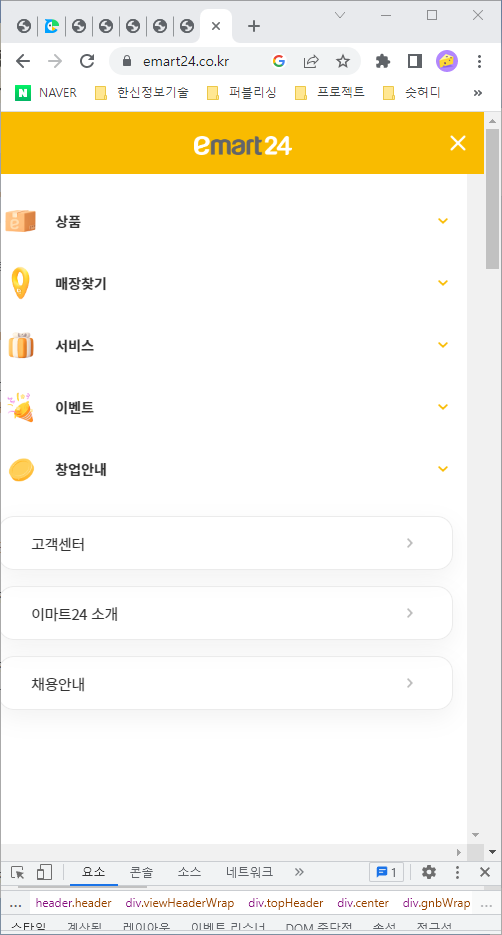
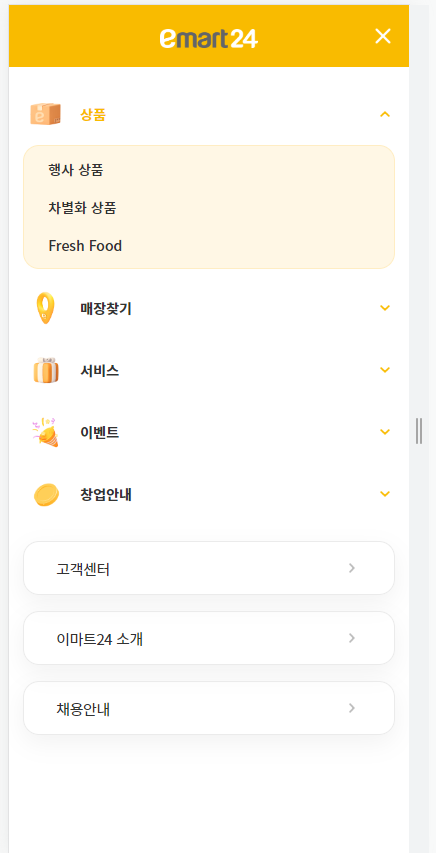
lnb 반응형 scss

diff --git a/스터디_2023/프로젝트/이마트24/css/style.css b/스터디_2023/프로젝트/이마트24/css/style.css
@@ -63,7 +63,7 @@ h1 { font-size: 0; line-height: 0; }
 
 .lnb .depth1 .depth1_item .depth2 .depth2_list .depth2_item a:hover { color: #f9bb00; }
 
-.lnb .lnb_link { display: none; padding: 0 14px; }
+.lnb .lnb_link { display: none; position: relative; padding: 0 14px; }
 
 .lnb .lnb_link ul { display: -webkit-box; display: -ms-flexbox; display: flex; -webkit-box-orient: vertical; -webkit-box-direction: normal; -ms-flex-direction: column; flex-direction: column; margin-top: 23px; }
 
@@ -88,29 +88,38 @@ h1 { font-size: 0; line-height: 0; }
   .lnb .depth1 .depth1_item { padding: 30px 56px 30px 0; }
   .lnb .depth1 .depth1_item .depth1_text { font-size: 17px; line-height: 25px; } }
 
-@media (max-width: 1000px) { header { height: 70px; }
-  .logo { top: 20px; left: calc(50% - 49px); }
+@media (max-width: 1000px) { header { height: 62px; }
+  .logo { top: 18px; left: calc(50% - 49px); }
   .logo a { width: 98px; }
   .fixed header { -webkit-transform: translateY(0); transform: translateY(0); }
   .menu.pulldown .depth1 { height: auto; }
-  .lnb { right: -100%; width: 100%; background-color: #fff; -webkit-transition: all 0.3s ease; transition: all 0.3s ease; z-index: 10; }
-  .lnb .lnb_topbox { display: block; position: relative; margin-bottom: 25px; padding: 23px 0 22px; background-color: #f9bb00; text-align: center; }
+  .lnb { right: -100%; width: 100%; height: 100vh; background-color: #fff; -webkit-transition: all 0.3s ease; transition: all 0.3s ease; z-index: 10; }
+  .lnb .lnb_topbox { display: block; position: relative; margin-bottom: 25px; padding: 19px 0 18px; background-color: #f9bb00; text-align: center; }
   .lnb .lnb_topbox a { width: 98px; }
-  .lnb .menu { position: relative; height: auto; }
+  .lnb .menu { overflow-y: auto; position: relative; height: calc(100% - 85px); }
   .lnb .menu::before { display: none; }
+  .lnb .menu:before { display: block; position: absolute; left: 0; top: -25px; width: 100%; height: 100vh; background: #fff; }
+  .lnb_open .lnb .menu::before { height: 100vh; }
   .lnb .depth1 { width: auto; height: auto; padding: 0 14px; }
   .lnb .depth1 .depth1_item { display: block; position: relative; margin-bottom: 16px; padding: 0; text-align: left; }
-  .lnb .depth1 .depth1_item a:before { display: -webkit-box; display: -ms-flexbox; display: flex; min-width: 45px; width: 31px; height: 22px; background-image: url("../images/main_sprite.png"); background-position: -5px -80px; background-repeat: no-repeat; }
-  .lnb .depth1 .depth1_item:nth-child(1) a:before { width: 31px; height: 22px; background-image: url("../images/main_sprite.png"); background-position: -5px -80px; background-repeat: no-repeat; }
-  .lnb .depth1 .depth1_item:nth-child(2) a:before { width: 19px; height: 32px; background-image: url("../images/main_sprite.png"); background-position: -45px -78px; background-repeat: no-repeat; }
-  .lnb .depth1 .depth1_item:nth-child(3) a:before { width: 25px; height: 26px; background-image: url("../images/main_sprite.png"); background-position: -76px -81px; background-repeat: no-repeat; }
-  .lnb .depth1 .depth1_item:nth-child(4) a:before { width: 26px; height: 29px; background-image: url("../images/main_sprite.png"); background-position: -110px -83px; background-repeat: no-repeat; }
-  .lnb .depth1 .depth1_item:nth-child(5) a:before { width: 25px; height: 24px; background-image: url("../images/main_sprite.png"); background-position: -153px -88px; background-repeat: no-repeat; }
+  .lnb .depth1 .depth1_item .depth1_text { display: -webkit-box; display: -ms-flexbox; display: flex; -webkit-box-align: center; -ms-flex-align: center; align-items: center; padding: 10px 5px; font-size: 14px; line-height: 22px; font-weight: 700; text-decoration: none; }
+  .lnb .depth1 .depth1_item .depth1_text:before { display: -webkit-box; display: -ms-flexbox; display: flex; min-width: 31px; margin-right: 17px; width: 31px; height: 22px; background-image: url("../images/main_sprite.png"); background-position: -5px -80px; background-repeat: no-repeat; }
+  .lnb .depth1 .depth1_item:nth-child(1) .depth1_text:before { width: 31px; height: 22px; background-image: url("../images/main_sprite.png"); background-position: -5px -80px; background-repeat: no-repeat; }
+  .lnb .depth1 .depth1_item:nth-child(2) .depth1_text:before { width: 19px; height: 32px; background-image: url("../images/main_sprite.png"); background-position: -40px -78px; background-repeat: no-repeat; }
+  .lnb .depth1 .depth1_item:nth-child(3) .depth1_text:before { width: 25px; height: 26px; background-image: url("../images/main_sprite.png"); background-position: -73px -81px; background-repeat: no-repeat; }
+  .lnb .depth1 .depth1_item:nth-child(4) .depth1_text:before { width: 26px; height: 29px; background-image: url("../images/main_sprite.png"); background-position: -108px -83px; background-repeat: no-repeat; }
+  .lnb .depth1 .depth1_item:nth-child(5) .depth1_text:before { width: 25px; height: 24px; background-image: url("../images/main_sprite.png"); background-position: -148px -88px; background-repeat: no-repeat; }
+  .lnb .depth1 .depth1_item .depth1_text:after { display: block; position: absolute; right: 5px; width: 10px; height: 6px; background-image: url("../images/main_sprite.png"); background-position: -37px -43px; background-repeat: no-repeat; -webkit-transition: all 0.2s ease; transition: all 0.2s ease; }
+  .lnb .depth1 .depth1_item.active .depth1_text:after { -webkit-transform: rotate(180deg); transform: rotate(180deg); }
   .lnb .depth1 .depth1_item:last-child { margin-bottom: 0; }
-  .lnb .depth1 .depth1_item .depth1_text { display: -webkit-box; display: -ms-flexbox; display: flex; padding: 12px 5px; font-size: 14px; line-height: 22px; font-weight: 700; }
+  .lnb .depth1 .depth1_item .depth2 { position: static; height: 0; background-color: #fff7e5; border: 1px solid #fff; border-radius: 16px; opacity: 0; -webkit-transition: all 0.2s ease; transition: all 0.2s ease; }
+  .lnb .depth1 .depth1_item.active .depth2 { height: auto; margin-top: 5px; border: 1px solid #ffedc3; opacity: 1; }
+  .lnb .depth1 .depth1_item .depth2 .depth2_list { padding: 14px 24px; }
+  .lnb .depth1 .depth1_item .depth2 .depth2_list .depth2_item { margin-top: 15px; }
+  .lnb .depth1 .depth1_item .depth2 .depth2_list .depth2_item a { font-size: 14px; line-height: 22px; color: #333; font-weight: 500; }
   .lnb_show .lnb { right: 0; }
   .lnb .lnb_link { display: block; }
-  .lnb .menu_hide { display: block; position: absolute; top: 14px; right: 14px; width: 35px; }
+  .lnb .menu_hide { display: block; position: absolute; top: 13px; right: 9px; width: 35px; }
   .lnb .menu_hide .menu_button { display: block; width: 100%; height: 35px; border: none; margin: 0; padding: 0; font-size: 0; }
   .lnb .menu_hide .menu_button:before { display: block; position: absolute; top: 10px; left: 10px; width: 16px; height: 16px; background-image: url("../images/main_sprite.png"); background-position: -214px -90px; background-repeat: no-repeat; }
   .gnb { display: none; } }
@@ -359,7 +368,7 @@ body { font-family: 'Noto Sans KR', sans-serif; font-size: 16px; }
   .event .tab_menu .tab_list { -webkit-box-orient: horizontal; -webkit-box-direction: normal; -ms-flex-direction: row; flex-direction: row; -webkit-box-pack: justify; -ms-flex-pack: justify; justify-content: space-between; gap: 8px; }
   .event .tab_menu .tab_item { width: 100%; }
   .event .tab_menu .tab_item + .tab_item { margin-top: 0; }
-  .event .tab_menu .tab_item .tab_btn { padding: 9px 40px; border: 0.5px solid #ebebeb; border-radius: 16px; font-size: 14px; text-align: center; -webkit-box-shadow: 0px 8px 24px rgba(0, 0, 0, 0.05); box-shadow: 0px 8px 24px rgba(0, 0, 0, 0.05); }
+  .event .tab_menu .tab_item .tab_btn { padding: 9px 0; border: 0.5px solid #ebebeb; border-radius: 16px; font-size: 14px; text-align: center; -webkit-box-shadow: 0px 8px 24px rgba(0, 0, 0, 0.05); box-shadow: 0px 8px 24px rgba(0, 0, 0, 0.05); }
   .event .tab_menu .tab_item .tab_btn span { vertical-align: middle; }
   .event .tab_menu .tab_item .tab_btn::before { display: inline-block; position: static; margin-right: 10px; -webkit-transform: scale(0.85); transform: scale(0.85); vertical-align: middle; }
   .event .tab_menu .tab_item .tab_btn::after { display: none; }

diff --git a/스터디_2023/프로젝트/이마트24/css/_header.scss b/스터디_2023/프로젝트/이마트24/css/_header.scss
@@ -152,6 +152,7 @@ h1{font-size: 0;line-height: 0;}
     }
     .lnb_link{
         display: none;
+        position: relative;
         padding: 0 14px;
         ul{
             display:flex;
@@ -231,29 +232,39 @@ h1{font-size: 0;line-height: 0;}
     .lnb .depth1 .depth1_item .depth1_text{font-size:17px;line-height:25px;}
 }
 @include tablet{
-    header{height:70px;}
-    .logo{top:20px;left: calc(50% - 49px);}
+    header{height:62px;}
+    .logo{top:18px;left: calc(50% - 49px);}
     .logo a{width:98px;}
     .fixed header{transform:translateY(0);}
     .menu.pulldown .depth1{height: auto;}
-    .lnb{right:-100%;width:100%;background-color:$White;transition: all 0.3s ease;z-index:10;}
-    .lnb .lnb_topbox{display:block;position:relative;margin-bottom:25px;padding:23px 0 22px;background-color:$BrandColorYellow;text-align: center;}
+    .lnb{right:-100%;width:100%;height:100vh;background-color:$White;transition: all 0.3s ease;z-index:10;}
+    .lnb .lnb_topbox{display:block;position:relative;margin-bottom:25px;padding:19px 0 18px;background-color:$BrandColorYellow;text-align: center;}
     .lnb .lnb_topbox a{width:98px;}
-    .lnb .menu{position: relative;height: auto;}
+    .lnb .menu{overflow-y:auto;position: relative;height: calc(100% - 85px);}
     .lnb .menu::before{display: none;}
+    .lnb .menu:before {display:block;position:absolute;left:0;top:-25px;width: 100%;height: 100vh;background: #fff}
+    .lnb_open .lnb .menu::before{height: 100vh;}
     .lnb .depth1{width:auto;height: auto;padding:0 14px;}
+    
     .lnb .depth1 .depth1_item{display:block;position:relative;margin-bottom:16px;padding:0;text-align: left;}
-    .lnb .depth1 .depth1_item a:before{display: flex;min-width: 45px;@include sprite_img(31px, 22px, '../images/main_sprite.png', -5px -80px);}
-    .lnb .depth1 .depth1_item:nth-child(1) a:before{@include sprite_img(31px, 22px, '../images/main_sprite.png', -5px -80px);}
-    .lnb .depth1 .depth1_item:nth-child(2) a:before{@include sprite_img(19px, 32px, '../images/main_sprite.png', -45px -78px);}
-    .lnb .depth1 .depth1_item:nth-child(3) a:before{@include sprite_img(25px, 26px, '../images/main_sprite.png', -76px -81px);}
-    .lnb .depth1 .depth1_item:nth-child(4) a:before{@include sprite_img(26px, 29px, '../images/main_sprite.png', -110px -83px);}
-    .lnb .depth1 .depth1_item:nth-child(5) a:before{@include sprite_img(25px, 24px, '../images/main_sprite.png', -153px -88px);}
+    .lnb .depth1 .depth1_item .depth1_text{display: flex;align-items: center;padding:10px 5px;font-size:14px;line-height:22px;font-weight:700;text-decoration: none;}
+    .lnb .depth1 .depth1_item .depth1_text:before{display: flex;min-width:31px;margin-right:17px;@include sprite_img(31px, 22px, '../images/main_sprite.png', -5px -80px);}
+    .lnb .depth1 .depth1_item:nth-child(1) .depth1_text:before{@include sprite_img(31px, 22px, '../images/main_sprite.png', -5px -80px);}
+    .lnb .depth1 .depth1_item:nth-child(2) .depth1_text:before{@include sprite_img(19px, 32px, '../images/main_sprite.png', -40px -78px);}
+    .lnb .depth1 .depth1_item:nth-child(3) .depth1_text:before{@include sprite_img(25px, 26px, '../images/main_sprite.png', -73px -81px);}
+    .lnb .depth1 .depth1_item:nth-child(4) .depth1_text:before{@include sprite_img(26px, 29px, '../images/main_sprite.png', -108px -83px);}
+    .lnb .depth1 .depth1_item:nth-child(5) .depth1_text:before{@include sprite_img(25px, 24px, '../images/main_sprite.png', -148px -88px);}
+    .lnb .depth1 .depth1_item .depth1_text:after{display: block;position:absolute;right:5px;@include sprite_img(10px, 6px, '../images/main_sprite.png', -37px -43px);transition: all 0.2s ease;}
+    .lnb .depth1 .depth1_item.active .depth1_text:after{transform: rotate(180deg);}
     .lnb .depth1 .depth1_item:last-child{margin-bottom:0;}
-    .lnb .depth1 .depth1_item .depth1_text{display: flex;padding:12px 5px;font-size:14px;line-height:22px;font-weight:700;}
+    .lnb .depth1 .depth1_item .depth2{position: static;height: 0;background-color:#fff7e5;border: 1px solid #fff;border-radius:16px;opacity: 0;transition: all 0.2s ease;}
+    .lnb .depth1 .depth1_item.active .depth2{height:auto;margin-top:5px;border: 1px solid #ffedc3;opacity:1;}
+    .lnb .depth1 .depth1_item .depth2 .depth2_list{padding:14px 24px;}
+    .lnb .depth1 .depth1_item .depth2 .depth2_list .depth2_item{margin-top:15px;}
+    .lnb .depth1 .depth1_item .depth2 .depth2_list .depth2_item a{font-size:14px;line-height:22px;color:#333;font-weight:500;}
     .lnb_show .lnb{right:0}
     .lnb .lnb_link{display:block;}
-    .lnb .menu_hide{display: block;position: absolute;top:14px;right:14px;width:35px;}
+    .lnb .menu_hide{display: block;position: absolute;top:13px;right:9px;width:35px;}
     .lnb .menu_hide .menu_button{display:block; width:100%; height:35px; border:none; margin:0; padding:0;font-size:0;}
     .lnb .menu_hide .menu_button:before{display:block; position:absolute; top:10px; left:10px;@include sprite_img(16px, 16px, '../images/main_sprite.png', -214px -90px); }
     .gnb{display: none;}

diff --git a/스터디_2023/프로젝트/이마트24/index.html b/스터디_2023/프로젝트/이마트24/index.html
@@ -129,14 +129,15 @@
                             </li>
                         </ul>
                     </div>
+                    <div class="lnb_link">
+                        <ul>
+                            <li><a href="">고객센터</a></li>
+                            <li><a href="">이마트24 소개</a></li>
+                            <li><a href="">채용안내</a></li>
+                        </ul>
+                    </div>
                 </nav>
-                <div class="lnb_link">
-                    <ul>
-                        <li><a href="">고객센터</a></li>
-                        <li><a href="">이마트24 소개</a></li>
-                        <li><a href="">채용안내</a></li>
-                    </ul>
-                </div>
+                
                 <div class="menu_hide">
                     <button type="button" class="menu_button">메뉴 닫기</button>
                 </div>

diff --git a/스터디_2023/프로젝트/이마트24/css/style.scss b/스터디_2023/프로젝트/이마트24/css/style.scss
@@ -500,7 +500,7 @@ body {
     .event .tab_menu .tab_list{flex-direction: row;justify-content:space-between;gap: 8px;}
     .event .tab_menu .tab_item{width: 100%;}
     .event .tab_menu .tab_item + .tab_item{margin-top: 0;}
-    .event .tab_menu .tab_item .tab_btn{padding:9px 40px;border:0.5px solid #ebebeb;border-radius:16px;font-size: 14px;text-align: center;box-shadow: 0px 8px 24px rgba(0, 0, 0, 0.05);}
+    .event .tab_menu .tab_item .tab_btn{padding:9px 0;border:0.5px solid #ebebeb;border-radius:16px;font-size: 14px;text-align: center;box-shadow: 0px 8px 24px rgba(0, 0, 0, 0.05);}
     .event .tab_menu .tab_item .tab_btn span{vertical-align: middle;}
     .event .tab_menu .tab_item .tab_btn::before{display:inline-block;position:static;margin-right:10px;transform: scale(0.85);vertical-align: middle;}
     .event .tab_menu .tab_item .tab_btn::after{display: none;}

diff --git a/스터디_2023/프로젝트/이마트24/css/common.css b/스터디_2023/프로젝트/이마트24/css/common.css
@@ -68,7 +68,7 @@ input[type="submit"]{cursor:pointer;}
 
 .skip{overflow:hidden;}
 
-.header_top .menu_show{display:none; visibility:visible; position:absolute; top:19px; right:0; z-index:5; width:28px;}
+.header_top .menu_show{display:none; visibility:visible; position:absolute; top:18px; right:0; z-index:5; width:28px;}
 .header_top .menu_show .menu_button{display:block; position:relative; width:100%; height:28px; border:none; color:transparent; font-size:0;}
 .header_top .menu_show .menu_button:before{display:block; position:absolute; top:7px; right:5px; width:18px; height:16px; background-repeat:no-repeat; background-position:-186px -90px;; background-image:url('../images/main_sprite.png'); content:'';}
 
